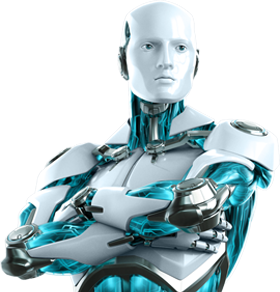
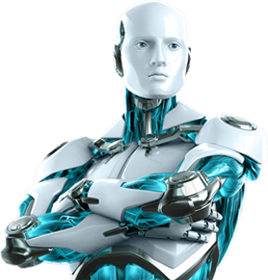
fix size m

diff --git a/components/hero/Hero.tsx b/components/hero/Hero.tsx
@@ -34,9 +34,10 @@ const Hero = () => {
             <Image
               src="/assets/mrobot.png"
               alt="Robot Image"
-              width={280}
-              height={292}
-              className="w-[270px] h-[270px] md:w-[280px] md:h-[280px]"
+              width={268}
+              height={280}
+              quality={50}
+              className="w-auto h-[270px] md:w-auto md:h-[280px]"
               priority
             />
           </div>
